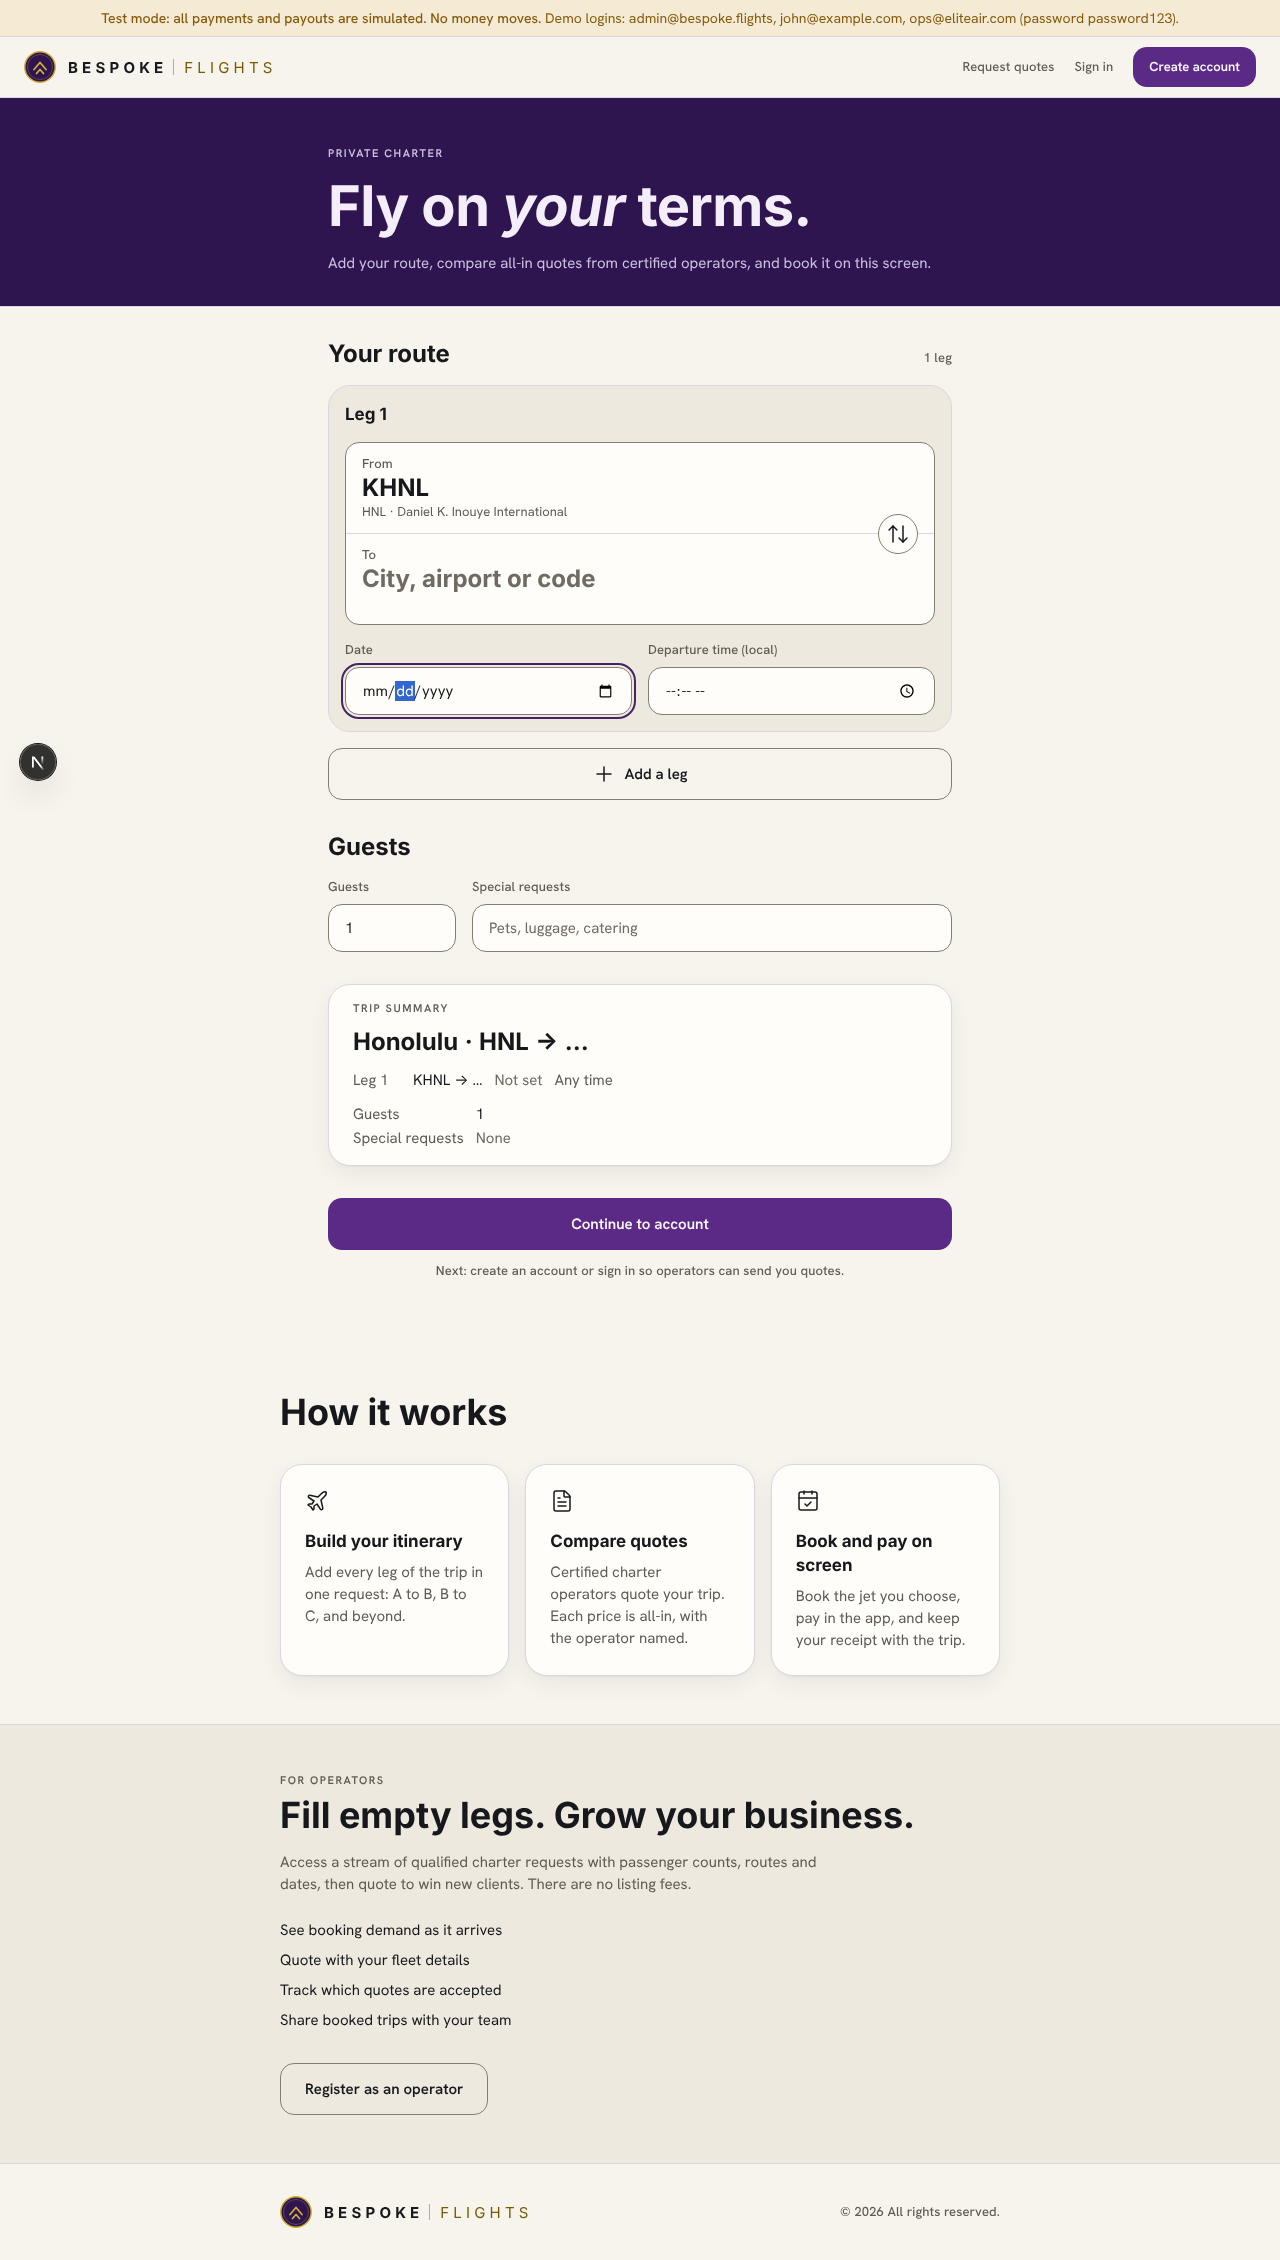
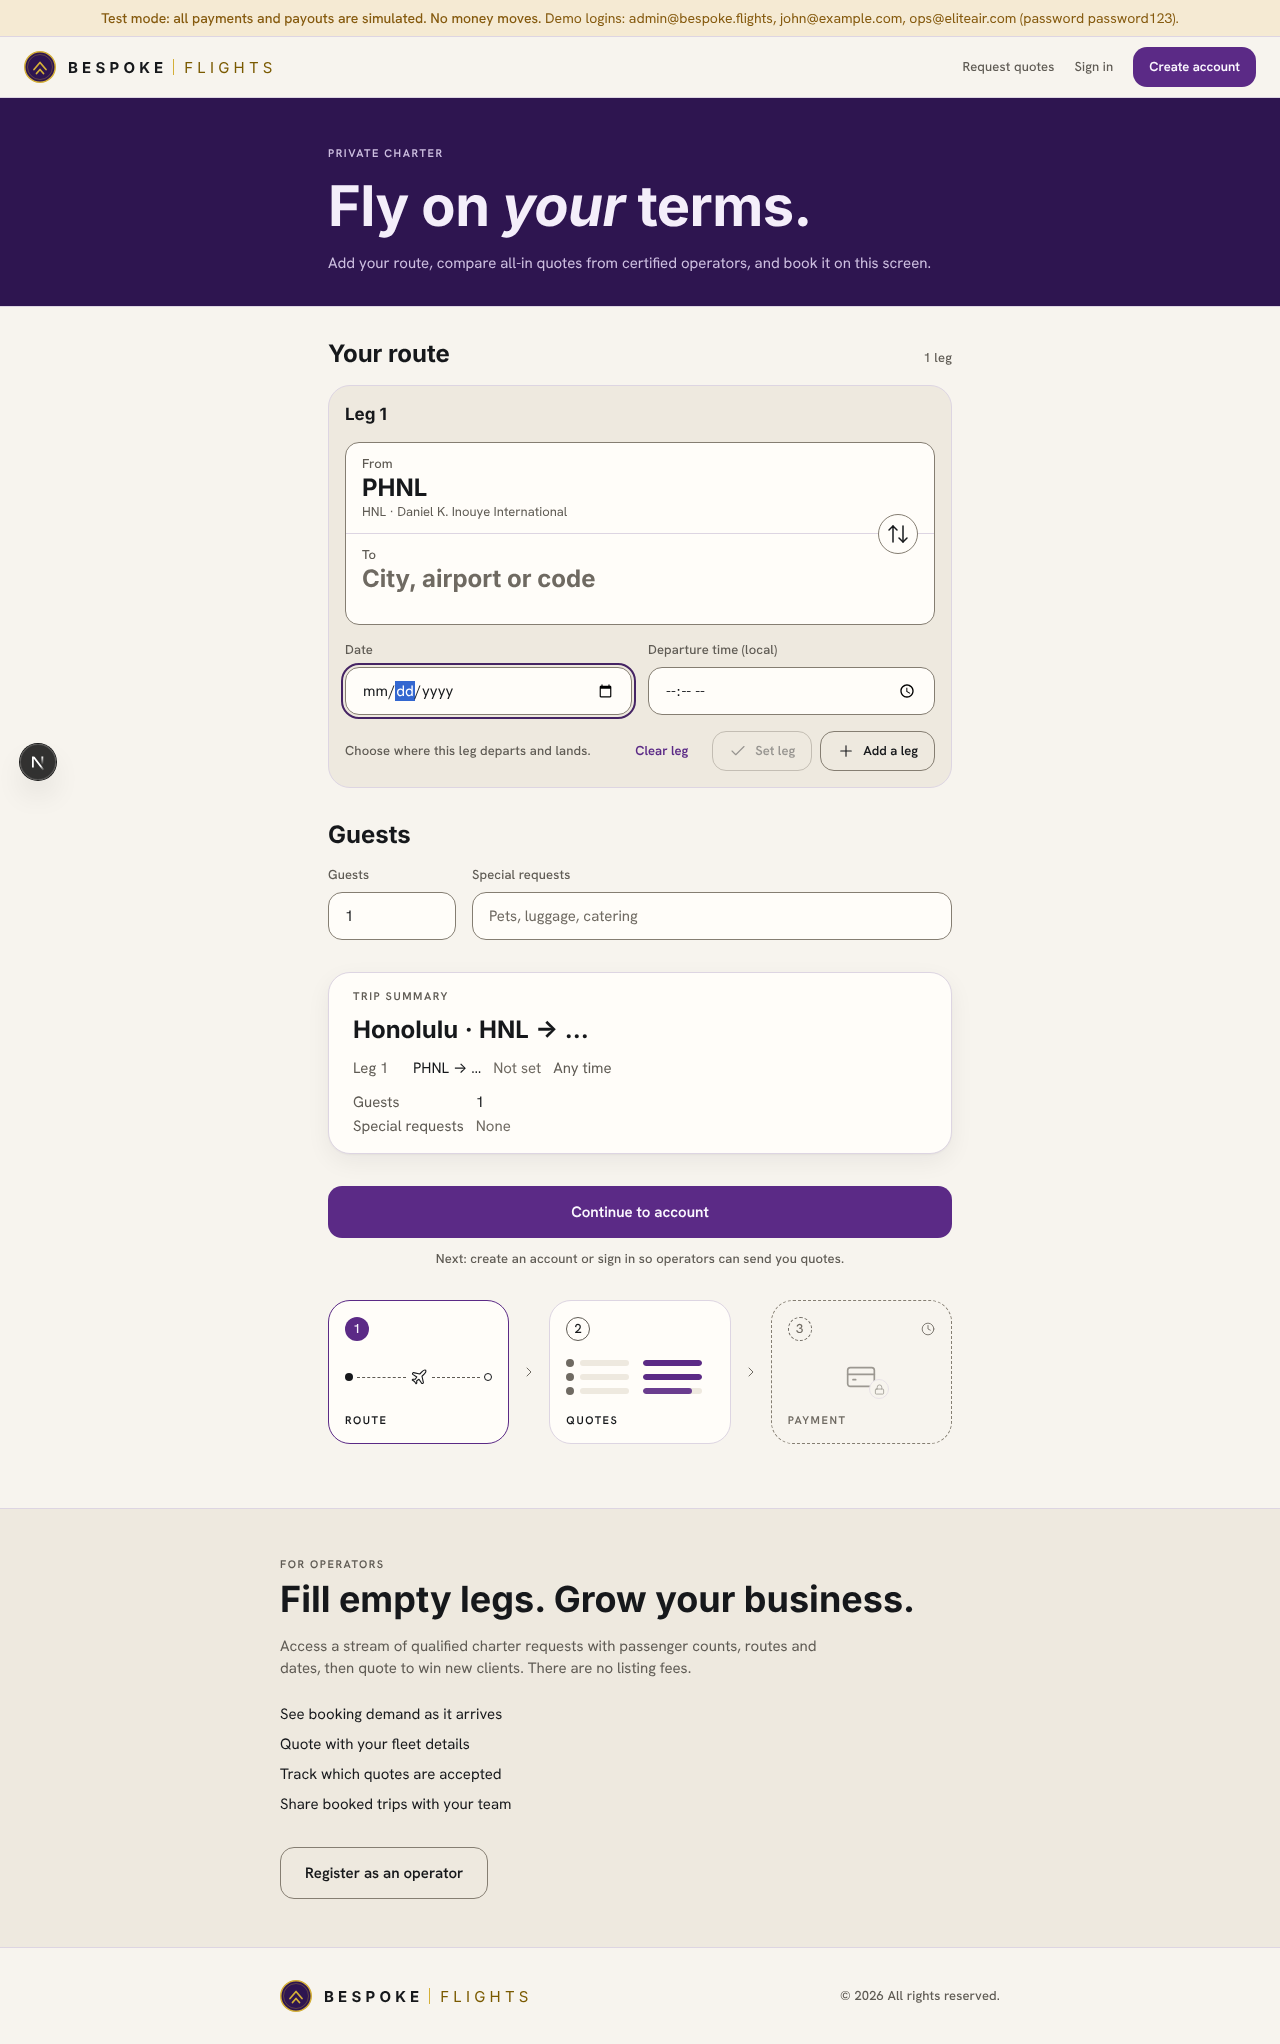
Replace How it works with a visual next-steps strip under the booking form
Three boxes: Route (current, ticked once every leg is set), Quotes (rows
fill in turn and the best is marked, animated in CSS; static and filled
under reduced motion), Payment (muted, dashed, locked: later). Short labels
only; screen readers get one sentence per step.

Claude-Session: https://claude.ai/code/session_01NBnVCVm2h7hekYMdk9f3C3

diff --git a/src/components/booking/next-steps.tsx b/src/components/booking/next-steps.tsx
@@ -1,0 +1,99 @@
+import { Check, ChevronRight, Clock, CreditCard, Lock, Plane } from 'lucide-react';
+
+/**
+ * What happens after "Request quotes", shown as pictures rather than prose:
+ * 1. the route (this form) — current, ticked once every leg is set;
+ * 2. quotes being prepared — animated rows filling in;
+ * 3. payment — muted, locked, later.
+ * Words are limited to short labels; screen readers get a full sentence per step.
+ */
+export function NextSteps({ routeReady }: { routeReady: boolean }) {
+  return (
+    <ol
+      id="next-steps"
+      aria-label="What happens next"
+      className="grid grid-cols-[1fr_auto_1fr_auto_1fr] items-stretch gap-1.5 sm:gap-3"
+    >
+      {/* 1. Route: you are here */}
+      <li id="step-route" className="flex flex-col gap-3 rounded-lg border border-royal bg-surface-raised p-3 sm:p-4">
+        <StepBadge n={1} state={routeReady ? 'done' : 'current'} />
+        <div aria-hidden="true" className="flex h-12 items-center gap-1">
+          <span className="size-2 shrink-0 rounded-pill bg-ink" />
+          <span className="h-px flex-1 border-t border-dashed border-ink-muted" />
+          <Plane size={18} strokeWidth={1.5} className="shrink-0 text-ink" />
+          <span className="h-px flex-1 border-t border-dashed border-ink-muted" />
+          <span className="size-2 shrink-0 rounded-pill border border-ink" />
+        </div>
+        <StepLabel>Route</StepLabel>
+        <span className="sr-only">Step 1, now: your route{routeReady ? ' is ready' : ''}.</span>
+      </li>
+
+      <Arrow />
+
+      {/* 2. Quotes: operators are preparing prices */}
+      <li id="step-quotes" className="flex flex-col gap-3 rounded-lg border border-hairline bg-surface-raised p-3 sm:p-4">
+        <StepBadge n={2} state="next" />
+        <div aria-hidden="true" className="quote-anim flex h-12 flex-col justify-center gap-1.5">
+          {[0, 1, 2].map(row => (
+            <div key={row} className="flex items-center gap-1.5">
+              <span className="size-2 shrink-0 rounded-pill bg-ink-subtle" />
+              <span className="h-1.5 w-1/3 rounded-pill bg-surface-sunken" />
+              <span className="relative ml-auto h-1.5 w-2/5 overflow-hidden rounded-pill bg-surface-sunken">
+                <span className="quote-fill absolute inset-y-0 left-0 rounded-pill bg-royal" style={{ animationDelay: `${row * 0.45}s` }} />
+              </span>
+              {row === 1
+                ? <span className="quote-best size-1.5 shrink-0 rounded-pill bg-brass" />
+                : <span className="size-1.5 shrink-0" />}
+            </div>
+          ))}
+        </div>
+        <StepLabel>Quotes</StepLabel>
+        <span className="sr-only">Step 2, next: certified operators prepare all-in quotes for you to compare.</span>
+      </li>
+
+      <Arrow />
+
+      {/* 3. Payment: later, once a quote is chosen */}
+      <li id="step-payment" className="flex flex-col gap-3 rounded-lg border border-dashed border-border-control p-3 sm:p-4">
+        <StepBadge n={3} state="later" />
+        <div aria-hidden="true" className="relative flex h-12 items-center justify-center opacity-60">
+          <CreditCard size={32} strokeWidth={1.25} className="text-ink-muted" />
+          <span className="absolute bottom-0.5 left-1/2 ml-2 flex size-5 items-center justify-center rounded-pill border border-hairline bg-surface">
+            <Lock size={11} strokeWidth={1.75} className="text-ink-muted" />
+          </span>
+        </div>
+        <StepLabel muted>Payment</StepLabel>
+        <span className="sr-only">Step 3, later: you pay only after you choose a quote. Nothing is charged now.</span>
+      </li>
+    </ol>
+  );
+}
+
+function StepBadge({ n, state }: { n: number; state: 'current' | 'done' | 'next' | 'later' }) {
+  const style = {
+    current: 'bg-royal text-on-royal',
+    done: 'bg-royal text-on-royal',
+    next: 'border border-ink-muted text-ink',
+    later: 'border border-dashed border-ink-subtle text-ink-subtle',
+  }[state];
+  return (
+    <span aria-hidden="true" className="flex items-center justify-between">
+      <span className={`flex size-6 items-center justify-center rounded-pill text-label tabular-nums ${style}`}>
+        {state === 'done' ? <Check size={14} strokeWidth={2} /> : n}
+      </span>
+      {state === 'later' && <Clock size={14} strokeWidth={1.5} className="text-ink-subtle" />}
+    </span>
+  );
+}
+
+function StepLabel({ children, muted = false }: { children: React.ReactNode; muted?: boolean }) {
+  return <span aria-hidden="true" className={`text-overline ${muted ? 'text-ink-subtle' : 'text-ink'}`}>{children}</span>;
+}
+
+function Arrow() {
+  return (
+    <li aria-hidden="true" className="flex items-center text-ink-subtle">
+      <ChevronRight size={16} strokeWidth={1.5} />
+    </li>
+  );
+}

diff --git a/src/app/page.tsx b/src/app/page.tsx
@@ -1,5 +1,4 @@
 import { cookies } from 'next/headers';
-import { CalendarCheck, FileText, Plane } from 'lucide-react';
 import { Header } from '@/components/layout/header';
 import { MultiLegForm } from '@/components/booking/multi-leg-form';
 import { ButtonLink } from '@/components/ui/button';
@@ -7,12 +6,6 @@ import { getSession } from '@/lib/auth';
 import { getDb } from '@/lib/db';
 import { DRAFT_COOKIE, parseDraft } from '@/lib/bookings/draft';
 import { Logo } from '@/components/ui/logo';
-
-const steps = [
-  { icon: Plane, title: 'Build your itinerary', desc: 'Add every leg of the trip in one request: A to B, B to C, and beyond.' },
-  { icon: FileText, title: 'Compare quotes', desc: 'Certified charter operators quote your trip. Each price is all-in, with the operator named.' },
-  { icon: CalendarCheck, title: 'Book and pay on screen', desc: 'Book the jet you choose, pay in the app, and keep your receipt with the trip.' },
-];
 
 const operatorPoints = [
   'See booking demand as it arrives',
@@ -47,20 +40,6 @@ export default async function HomePage() {
 
         <section id="plan-trip" aria-label="Plan your trip" className="mx-auto max-w-2xl px-4 pt-8 pb-[var(--space-7)] sm:px-6">
           <MultiLegForm initialDraft={draft} viewerRole={session?.role ?? null} />
-        </section>
-
-        {/* How it works */}
-        <section id="how-it-works" className="mx-auto max-w-3xl px-4 py-[var(--space-7)] sm:px-6">
-          <h2 className="text-display mb-8 text-ink">How it works</h2>
-          <ol className="grid gap-4 md:grid-cols-3">
-            {steps.map(({ icon: Icon, title, desc }) => (
-              <li key={title} className="rounded-lg border border-hairline bg-surface-raised p-6 shadow-raised">
-                <Icon size={24} strokeWidth={1.5} aria-hidden="true" className="text-ink" />
-                <h3 className="mt-4 text-heading text-ink">{title}</h3>
-                <p className="mt-2 text-body text-ink-muted">{desc}</p>
-              </li>
-            ))}
-          </ol>
         </section>
 
         {/* For operators */}

diff --git a/src/app/globals.css b/src/app/globals.css
@@ -220,6 +220,21 @@ h1, h2, h3, h4, h5, h6 {
 
 /* Native date/time pickers follow the theme through color-scheme. */
 
+/* Next steps: quotes being prepared. Rows fill in turn, then the best one is marked.
+   The last keyframe is the resting state, so reduced motion shows filled rows. */
+@keyframes quote-fill {
+  0% { width: 0; opacity: 0.4; }
+  45% { width: 100%; opacity: 1; }
+  100% { width: 100%; opacity: 1; }
+}
+@keyframes quote-best {
+  0%, 60% { transform: scale(0); opacity: 0; }
+  75% { transform: scale(1.4); opacity: 1; }
+  85%, 100% { transform: scale(1); opacity: 1; }
+}
+.quote-fill { width: 100%; animation: quote-fill 3s ease-out infinite both; }
+.quote-best { animation: quote-best 3s ease-out infinite both; }
+
 @media (prefers-reduced-motion: reduce) {
   *, *::before, *::after {
     animation-duration: 0.01ms !important;

diff --git a/src/components/booking/multi-leg-form.tsx b/src/components/booking/multi-leg-form.tsx
@@ -7,6 +7,7 @@ import { Input } from '@/components/ui/input';
 import { Button } from '@/components/ui/button';
 import { AccountStep } from '@/components/booking/account-step';
 import { LegCard, legIsComplete } from '@/components/booking/leg-card';
+import { NextSteps } from '@/components/booking/next-steps';
 import { formatLandUnits, formatNm, tripDistance } from '@/lib/distance';
 import { TripDetails } from '@/components/booking/trip-details';
 import { fromDraftLegs } from '@/lib/trip-format';
@@ -291,6 +292,8 @@ export function MultiLegForm({
           </p>
         )}
       </div>
+
+      <NextSteps routeReady={legs.every(legIsComplete)} />
     </form>
   );
 }
